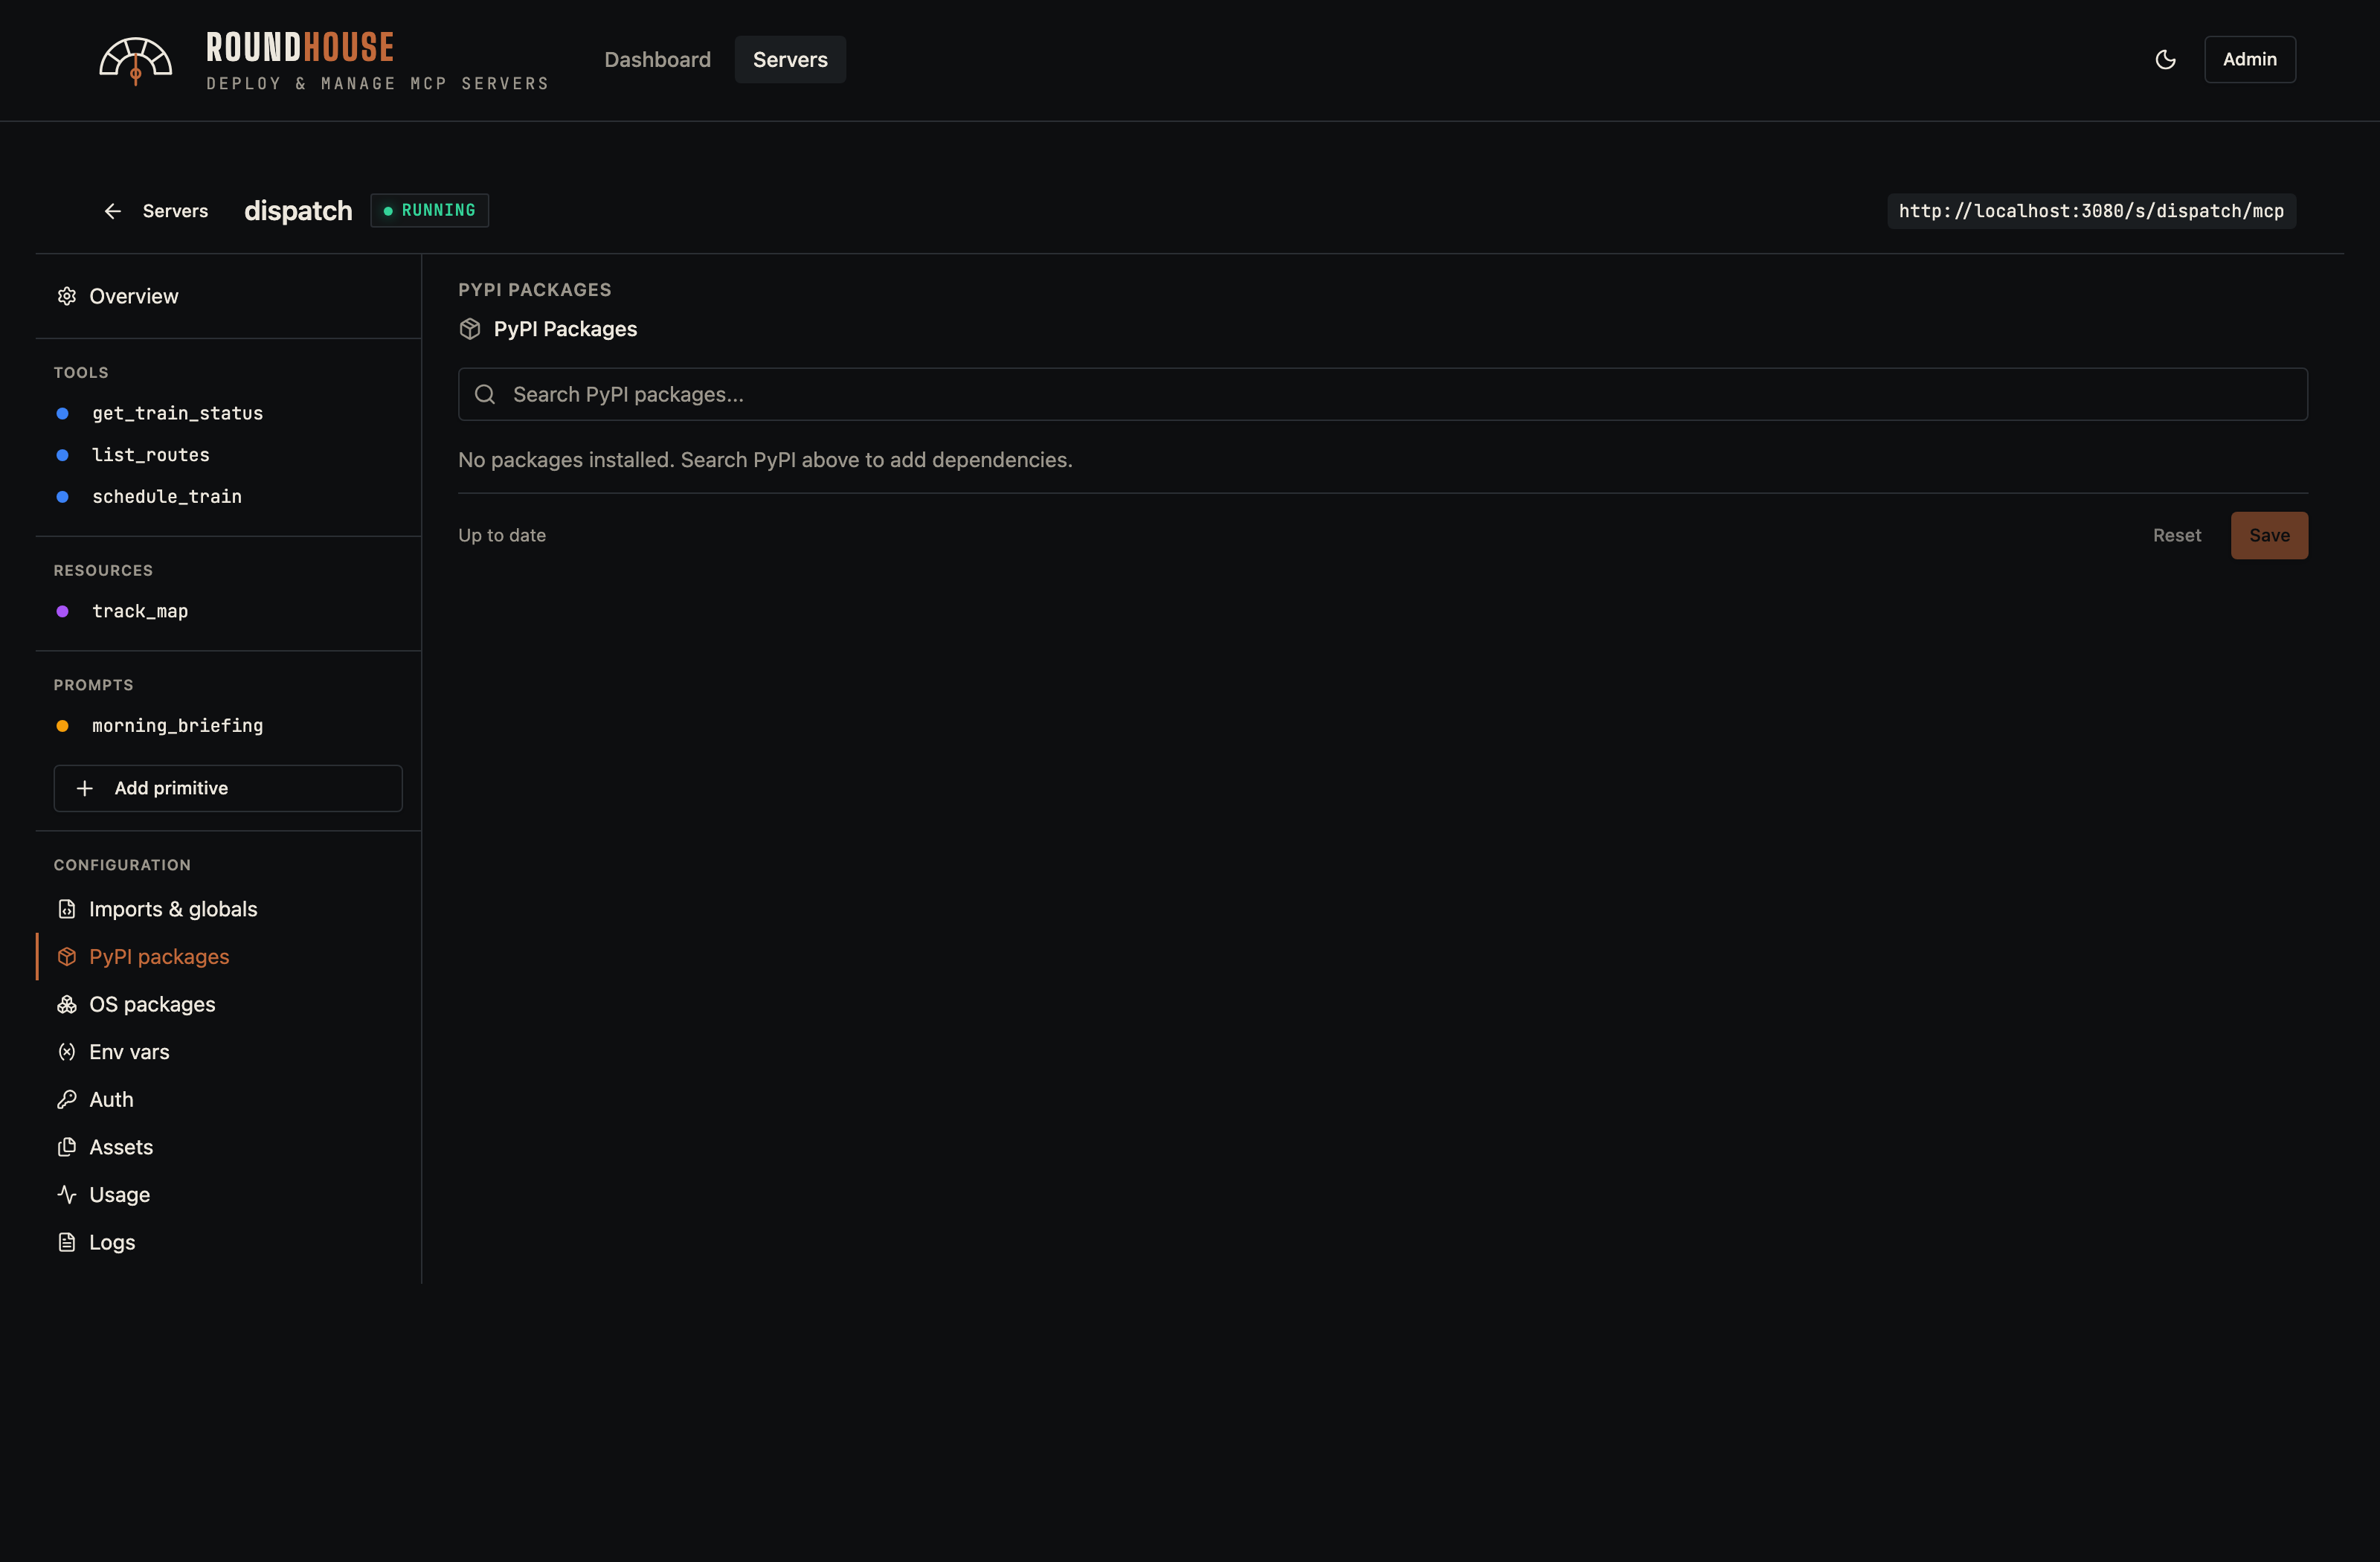
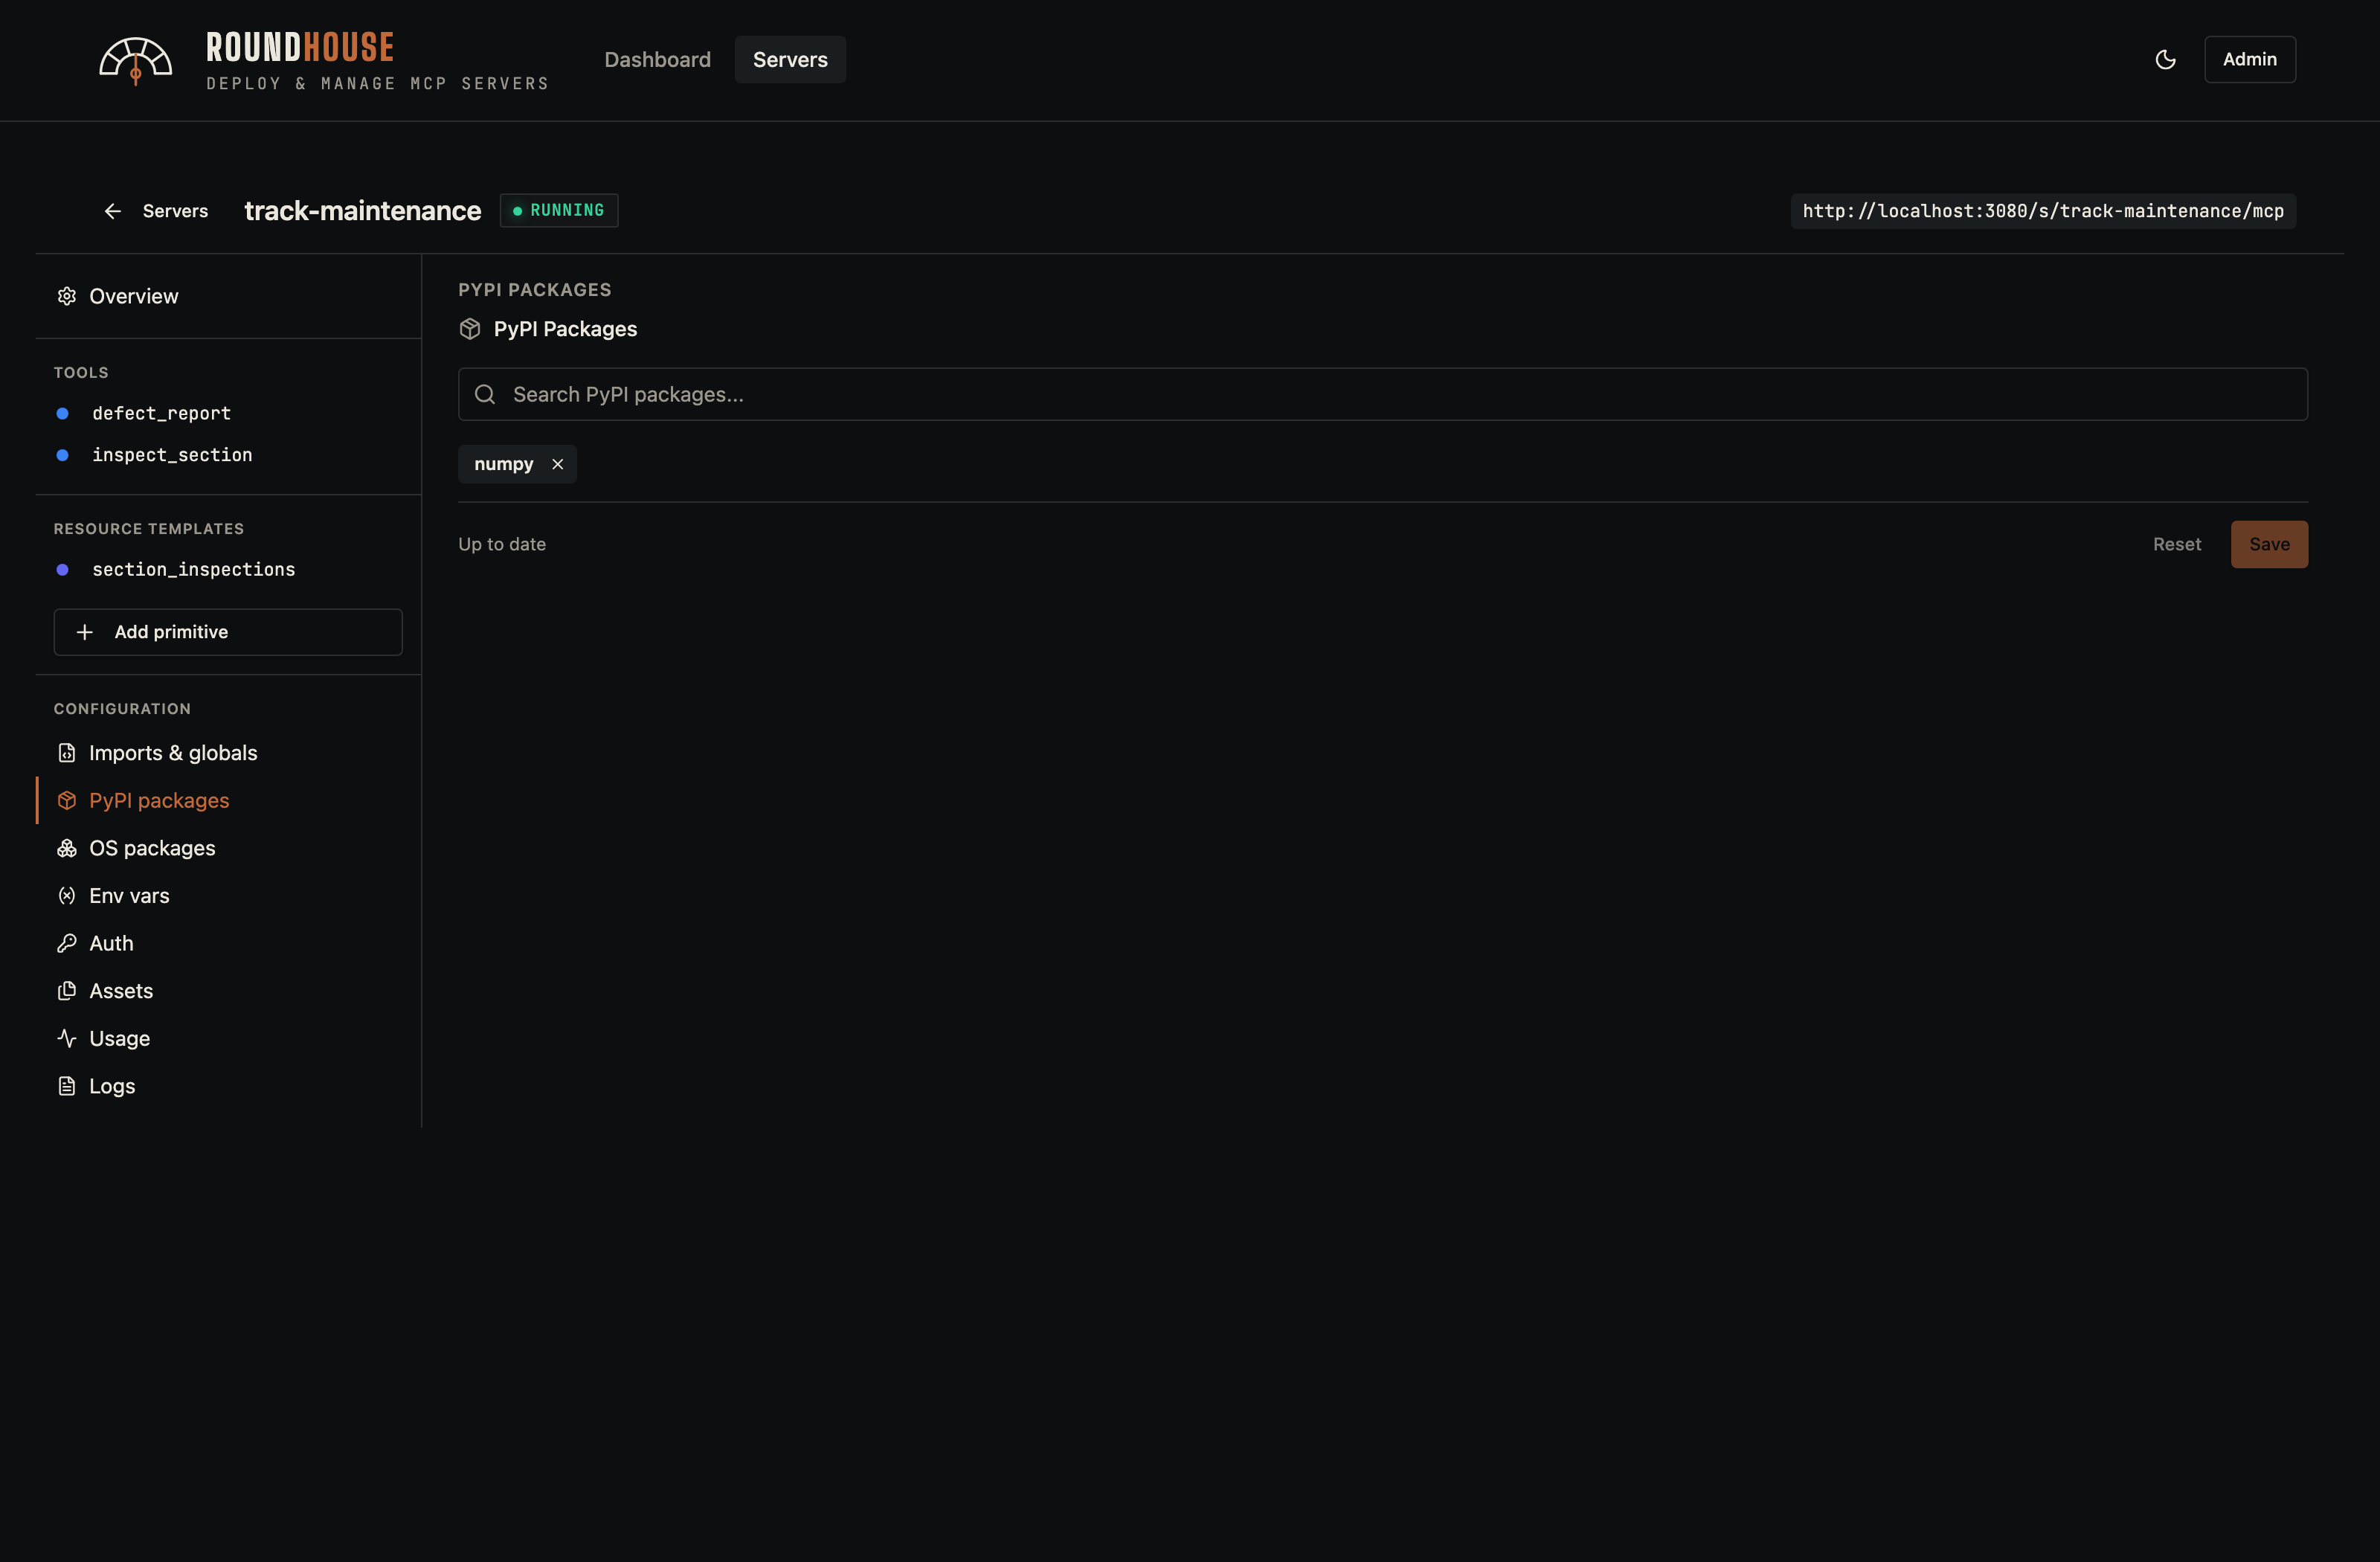
Add screenshot lightbox + cache-busting to docs page
- click any figure to expand in a full-screen lightbox (esc/click closes)
- image URLs carry a content-hash query param so re-captured screenshots
  at the same path bust browser/CDN caches
- packages screenshot now taken from track-maintenance (shows numpy)
- create-dialog copy no longer hard-codes the tab count

diff --git a/website/docs/index.html b/website/docs/index.html
@@ -184,7 +184,35 @@ figure { margin: 6px 0 30px; }
 figure img {
   width: 100%; height: auto; border: 1px solid var(--line);
   border-radius: 8px; background: var(--iron-2);
+  cursor: zoom-in; transition: border-color .2s;
 }
+figure img:hover { border-color: var(--copper-dim); }
+
+/* lightbox */
+.lightbox {
+  position: fixed; inset: 0; z-index: 1000; display: none;
+  flex-direction: column; align-items: center; justify-content: center;
+  gap: 14px; padding: 3vh 3vw;
+  background: color-mix(in srgb, var(--iron) 90%, transparent);
+  backdrop-filter: blur(12px); -webkit-backdrop-filter: blur(12px);
+}
+.lightbox.open { display: flex; }
+.lightbox img {
+  max-width: 100%; max-height: calc(100% - 52px); width: auto; height: auto;
+  border: 1px solid var(--line); border-radius: 8px;
+  box-shadow: 0 30px 90px rgba(0,0,0,.65); cursor: zoom-out;
+}
+.lightbox .lb-caption {
+  font-family: var(--mono); font-size: 11px; letter-spacing: .14em;
+  text-transform: uppercase; color: var(--smoke);
+}
+.lightbox .lb-close {
+  position: absolute; top: 18px; right: 26px;
+  font-family: var(--mono); font-size: 13px; letter-spacing: .1em;
+  color: var(--smoke); background: var(--iron-3); border: 1px solid var(--line);
+  border-radius: 4px; padding: 7px 13px; cursor: pointer; transition: color .15s, border-color .15s;
+}
+.lightbox .lb-close:hover { color: var(--cream); border-color: var(--copper-dim); }
 figcaption {
   font-family: var(--mono); font-size: 11px; letter-spacing: .14em;
   text-transform: uppercase; color: var(--ash); margin-top: 10px;
@@ -349,7 +377,7 @@ docker compose up -d</code></pre></div>
 docker compose down -v     # wipe everything</code></pre></div>
 <h3 id="sign-in">Sign in<a class="anchor" href="#sign-in" aria-label="link to section">#</a></h3>
 <p>Roundhouse uses email/password sign-in. The first admin is created from the <code>ADMIN_EMAIL</code> and <code>ADMIN_PASSWORD</code> environment variables when the API boots (defaults: <code>[email redacted]</code> / <code>admin</code> — change them in <code>.env</code> before first boot, or from the Users page after).</p>
-<figure><img src="screenshots/dark/01-login.png" alt="Login" loading="lazy" decoding="async" /><figcaption>fig. 01 — login</figcaption></figure>
+<figure><img src="screenshots/dark/01-login.png?v=9e7e9860" alt="Login" loading="lazy" decoding="async" /><figcaption>fig. 01 — login</figcaption></figure>
 <div class="rule" aria-hidden="true"></div>
 <h2 id="connecting-clients">Connecting clients<a class="anchor" href="#connecting-clients" aria-label="link to section">#</a></h2>
 <p>Every deployed server gets a stable URL like <code>http://localhost:3080/s/my-server/mcp</code>. Traefik routes MCP clients straight to the spawned container — the platform never proxies MCP traffic on the hot path.</p>
@@ -374,92 +402,92 @@ docker compose down -v     # wipe everything</code></pre></div>
 <div class="rule" aria-hidden="true"></div>
 <h2 id="dashboard">Dashboard<a class="anchor" href="#dashboard" aria-label="link to section">#</a></h2>
 <p>The dashboard is the home view after sign-in. It surfaces fleet-wide health (running/stopped/errored counts), recent call volume, the busiest servers, and a rolling activity timeline.</p>
-<figure><img src="screenshots/dark/02-dashboard.png" alt="Dashboard" loading="lazy" decoding="async" /><figcaption>fig. 02 — dashboard</figcaption></figure>
+<figure><img src="screenshots/dark/02-dashboard.png?v=4c2d46a9" alt="Dashboard" loading="lazy" decoding="async" /><figcaption>fig. 02 — dashboard</figcaption></figure>
 <div class="rule" aria-hidden="true"></div>
 <h2 id="servers-list">Servers list<a class="anchor" href="#servers-list" aria-label="link to section">#</a></h2>
 <p>The full inventory of MCP servers you can see. Each row shows the server's deploy mode (structured or code), live status, recent call count, and quick actions.</p>
-<figure><img src="screenshots/dark/03-servers-list.png" alt="Servers list" loading="lazy" decoding="async" /><figcaption>fig. 03 — servers list</figcaption></figure>
+<figure><img src="screenshots/dark/03-servers-list.png?v=342cb4e6" alt="Servers list" loading="lazy" decoding="async" /><figcaption>fig. 03 — servers list</figcaption></figure>
 <div class="rule" aria-hidden="true"></div>
 <h2 id="creating-a-server">Creating a server<a class="anchor" href="#creating-a-server" aria-label="link to section">#</a></h2>
-<p>The <strong>Create</strong> button opens a dialog with four tabs.</p>
+<p>The <strong>Create</strong> button opens a dialog with a tab for each way a server can be authored.</p>
 <h3 id="structured">Structured<a class="anchor" href="#structured" aria-label="link to section">#</a></h3>
 <p>The default: an empty spec-managed server. Primitives, packages, env vars, and middleware are managed through the UI; Roundhouse owns the Dockerfile.</p>
-<figure><img src="screenshots/dark/04-create-structured.png" alt="Create — Structured" loading="lazy" decoding="async" /><figcaption>fig. 04 — create — structured</figcaption></figure>
+<figure><img src="screenshots/dark/04-create-structured.png?v=431ea2ee" alt="Create — Structured" loading="lazy" decoding="async" /><figcaption>fig. 04 — create — structured</figcaption></figure>
 <h3 id="code-first">Code-first<a class="anchor" href="#code-first" aria-label="link to section">#</a></h3>
 <p>You supply a complete <code>server.py</code> (FastMCP). Roundhouse still owns the Dockerfile and platform middleware, but the primitive surface is hidden in favour of a full source editor.</p>
-<figure><img src="screenshots/dark/05-create-code.png" alt="Create — Code-first" loading="lazy" decoding="async" /><figcaption>fig. 05 — create — code-first</figcaption></figure>
+<figure><img src="screenshots/dark/05-create-code.png?v=4f9e1c2d" alt="Create — Code-first" loading="lazy" decoding="async" /><figcaption>fig. 05 — create — code-first</figcaption></figure>
 <h3 id="from-git">From Git<a class="anchor" href="#from-git" aria-label="link to section">#</a></h3>
 <p>Clone a repo that declares its dependencies in <code>roundhouse.json</code>. The imported server registers as <code>not_deployed</code> — Roundhouse seeds the environment variables declared by the manifest, populates pip and apt packages, and waits for an operator to fill in secrets before the first deploy.</p>
-<figure><img src="screenshots/dark/06-create-from-git.png" alt="Create — From Git" loading="lazy" decoding="async" /><figcaption>fig. 06 — create — from git</figcaption></figure>
+<figure><img src="screenshots/dark/06-create-from-git.png?v=058d64d2" alt="Create — From Git" loading="lazy" decoding="async" /><figcaption>fig. 06 — create — from git</figcaption></figure>
 <h3 id="import">Import<a class="anchor" href="#import" aria-label="link to section">#</a></h3>
 <p>Paste an exported spec JSON (from another Roundhouse instance, or from <code>POST /api/servers/{name}/export</code>) to clone a server's configuration verbatim.</p>
-<figure><img src="screenshots/dark/07-create-import.png" alt="Create — Import" loading="lazy" decoding="async" /><figcaption>fig. 07 — create — import</figcaption></figure>
+<figure><img src="screenshots/dark/07-create-import.png?v=831e391f" alt="Create — Import" loading="lazy" decoding="async" /><figcaption>fig. 07 — create — import</figcaption></figure>
 <div class="rule" aria-hidden="true"></div>
 <h2 id="the-server-editor">The server editor<a class="anchor" href="#the-server-editor" aria-label="link to section">#</a></h2>
 <p>Selecting a server opens the two-pane editor. The left rail is the server's table of contents — primitives, configuration, and operational tabs. The right pane is whichever section you've selected.</p>
 <h3 id="overview">Overview<a class="anchor" href="#overview" aria-label="link to section">#</a></h3>
 <p>The overview is the editor's home base: description, replicas, resource limits, and the lifecycle controls (Start, Stop, Redeploy, Delete, plus <strong>Update from Git</strong> for repos imported via <code>from-git</code>).</p>
-<figure><img src="screenshots/dark/10-editor-overview.png" alt="Editor — overview" loading="lazy" decoding="async" /><figcaption>fig. 08 — editor — overview</figcaption></figure>
+<figure><img src="screenshots/dark/10-editor-overview.png?v=9300df16" alt="Editor — overview" loading="lazy" decoding="async" /><figcaption>fig. 08 — editor — overview</figcaption></figure>
 <h3 id="primitives">Primitives<a class="anchor" href="#primitives" aria-label="link to section">#</a></h3>
 <p>Structured servers expose <strong>tools</strong>, <strong>resources</strong>, <strong>resource templates</strong>, and <strong>prompts</strong>. Each primitive is edited in-place: parameters, body, and optional middleware overrides (rate limit, max concurrency).</p>
 <h4 id="tool">Tool<a class="anchor" href="#tool" aria-label="link to section">#</a></h4>
-<figure><img src="screenshots/dark/11-editor-primitive-tool.png" alt="Editor — primitive (tool)" loading="lazy" decoding="async" /><figcaption>fig. 09 — editor — primitive (tool)</figcaption></figure>
+<figure><img src="screenshots/dark/11-editor-primitive-tool.png?v=3b8a9ebb" alt="Editor — primitive (tool)" loading="lazy" decoding="async" /><figcaption>fig. 09 — editor — primitive (tool)</figcaption></figure>
 <h4 id="resource">Resource<a class="anchor" href="#resource" aria-label="link to section">#</a></h4>
-<figure><img src="screenshots/dark/12-editor-primitive-resource.png" alt="Editor — primitive (resource)" loading="lazy" decoding="async" /><figcaption>fig. 10 — editor — primitive (resource)</figcaption></figure>
+<figure><img src="screenshots/dark/12-editor-primitive-resource.png?v=00cee9ad" alt="Editor — primitive (resource)" loading="lazy" decoding="async" /><figcaption>fig. 10 — editor — primitive (resource)</figcaption></figure>
 <h4 id="prompt">Prompt<a class="anchor" href="#prompt" aria-label="link to section">#</a></h4>
-<figure><img src="screenshots/dark/13-editor-primitive-prompt.png" alt="Editor — primitive (prompt)" loading="lazy" decoding="async" /><figcaption>fig. 11 — editor — primitive (prompt)</figcaption></figure>
+<figure><img src="screenshots/dark/13-editor-primitive-prompt.png?v=82555ee3" alt="Editor — primitive (prompt)" loading="lazy" decoding="async" /><figcaption>fig. 11 — editor — primitive (prompt)</figcaption></figure>
 <h4 id="adding-a-new-primitive">Adding a new primitive<a class="anchor" href="#adding-a-new-primitive" aria-label="link to section">#</a></h4>
-<figure><img src="screenshots/dark/14-editor-primitive-new.png" alt="Editor — new primitive" loading="lazy" decoding="async" /><figcaption>fig. 12 — editor — new primitive</figcaption></figure>
+<figure><img src="screenshots/dark/14-editor-primitive-new.png?v=2c3c47f1" alt="Editor — new primitive" loading="lazy" decoding="async" /><figcaption>fig. 12 — editor — new primitive</figcaption></figure>
 <h3 id="imports-and-globals">Imports and globals<a class="anchor" href="#imports-and-globals" aria-label="link to section">#</a></h3>
 <p>Any free-form Python imports or module-level globals that should appear in the generated <code>server.py</code>.</p>
-<figure><img src="screenshots/dark/15-editor-imports.png" alt="Editor — imports" loading="lazy" decoding="async" /><figcaption>fig. 13 — editor — imports</figcaption></figure>
+<figure><img src="screenshots/dark/15-editor-imports.png?v=a5c13398" alt="Editor — imports" loading="lazy" decoding="async" /><figcaption>fig. 13 — editor — imports</figcaption></figure>
 <h3 id="pypi-packages">PyPI packages<a class="anchor" href="#pypi-packages" aria-label="link to section">#</a></h3>
 <p>Pip dependencies. They are pinned into the generated Dockerfile and installed at build time.</p>
-<figure><img src="screenshots/dark/16-editor-packages.png" alt="Editor — packages (pip)" loading="lazy" decoding="async" /><figcaption>fig. 14 — editor — packages (pip)</figcaption></figure>
+<figure><img src="screenshots/dark/16-editor-packages.png?v=69b1b217" alt="Editor — packages (pip)" loading="lazy" decoding="async" /><figcaption>fig. 14 — editor — packages (pip)</figcaption></figure>
 <h3 id="apt-packages">APT packages<a class="anchor" href="#apt-packages" aria-label="link to section">#</a></h3>
 <p>OS-level packages installed via <code>apt-get</code> in the build. Use for native toolchains a Python wheel needs.</p>
-<figure><img src="screenshots/dark/17-editor-apt.png" alt="Editor — apt packages" loading="lazy" decoding="async" /><figcaption>fig. 15 — editor — apt packages</figcaption></figure>
+<figure><img src="screenshots/dark/17-editor-apt.png?v=527da61c" alt="Editor — apt packages" loading="lazy" decoding="async" /><figcaption>fig. 15 — editor — apt packages</figcaption></figure>
 <h3 id="environment-variables">Environment variables<a class="anchor" href="#environment-variables" aria-label="link to section">#</a></h3>
 <p>Per-server env vars (with optional encrypted-at-rest secrets) and global imports. Changes save instantly; the redeploy banner surfaces because the new value only takes effect on the next container restart.</p>
-<figure><img src="screenshots/dark/18-editor-env.png" alt="Editor — env vars" loading="lazy" decoding="async" /><figcaption>fig. 16 — editor — env vars</figcaption></figure>
+<figure><img src="screenshots/dark/18-editor-env.png?v=c64fb849" alt="Editor — env vars" loading="lazy" decoding="async" /><figcaption>fig. 16 — editor — env vars</figcaption></figure>
 <h3 id="auth-server-tokens">Auth (server tokens)<a class="anchor" href="#auth-server-tokens" aria-label="link to section">#</a></h3>
 <p>Bearer tokens that callers present in the <code>Authorization</code> header. Per-token scopes can lock individual primitives down to specific token holders.</p>
-<figure><img src="screenshots/dark/19-editor-auth.png" alt="Editor — auth" loading="lazy" decoding="async" /><figcaption>fig. 17 — editor — auth</figcaption></figure>
+<figure><img src="screenshots/dark/19-editor-auth.png?v=e6aa30bf" alt="Editor — auth" loading="lazy" decoding="async" /><figcaption>fig. 17 — editor — auth</figcaption></figure>
 <h3 id="assets">Assets<a class="anchor" href="#assets" aria-label="link to section">#</a></h3>
 <p>Arbitrary files that get baked into the image under <code>/app/assets/</code>. Useful for prompt templates, large JSON fixtures, or any read-only data your tools reference at runtime.</p>
-<figure><img src="screenshots/dark/20-editor-assets.png" alt="Editor — assets" loading="lazy" decoding="async" /><figcaption>fig. 18 — editor — assets</figcaption></figure>
+<figure><img src="screenshots/dark/20-editor-assets.png?v=bcc4beac" alt="Editor — assets" loading="lazy" decoding="async" /><figcaption>fig. 18 — editor — assets</figcaption></figure>
 <h3 id="usage">Usage<a class="anchor" href="#usage" aria-label="link to section">#</a></h3>
 <p>Per-primitive call counts, p50/p95/p99 latency, error rate, and the busiest client tokens. Sampled in-process by the platform middleware and surfaced without an extra metrics backend — no Prometheus, no Grafana, no add-on agent. Drilling into a server's usage tab is how you find latency regressions or the one tool that's getting hammered.</p>
-<figure><img src="screenshots/dark/21-editor-usage.png" alt="Editor — usage (dispatch)" loading="lazy" decoding="async" /><figcaption>fig. 19 — editor — usage (dispatch)</figcaption></figure>
+<figure><img src="screenshots/dark/21-editor-usage.png?v=24146a27" alt="Editor — usage (dispatch)" loading="lazy" decoding="async" /><figcaption>fig. 19 — editor — usage (dispatch)</figcaption></figure>
 <p>A busier server (crew-scheduling, which carries the heaviest call volume in the demo fleet) makes the chart variety obvious:</p>
-<figure><img src="screenshots/dark/21a-editor-usage-busy.png" alt="Editor — usage (crew-scheduling)" loading="lazy" decoding="async" /><figcaption>fig. 20 — editor — usage (crew-scheduling)</figcaption></figure>
+<figure><img src="screenshots/dark/21a-editor-usage-busy.png?v=d591e25a" alt="Editor — usage (crew-scheduling)" loading="lazy" decoding="async" /><figcaption>fig. 20 — editor — usage (crew-scheduling)</figcaption></figure>
 <h3 id="logs">Logs<a class="anchor" href="#logs" aria-label="link to section">#</a></h3>
 <p>Streams stdout/stderr from the server container via Server-Sent Events.</p>
 <p>For spec-based servers, the <strong>Level</strong> dropdown writes the <code>LOG_LEVEL</code> environment variable on the spec; the platform middleware reads it and configures stdlib logging accordingly. At <code>DEBUG</code>, the middleware also emits a start record (with arguments) for every tool/resource/prompt call. Failed calls promote the end-of-call record to <code>WARNING</code>. The dropdown is hidden for code-mode servers, since they own their own logging surface.</p>
-<figure><img src="screenshots/dark/22-editor-logs.png" alt="Editor — logs" loading="lazy" decoding="async" /><figcaption>fig. 21 — editor — logs</figcaption></figure>
+<figure><img src="screenshots/dark/22-editor-logs.png?v=26f85b2f" alt="Editor — logs" loading="lazy" decoding="async" /><figcaption>fig. 21 — editor — logs</figcaption></figure>
 <h3 id="source-code-mode">Source (code mode)<a class="anchor" href="#source-code-mode" aria-label="link to section">#</a></h3>
 <p>For servers in <strong>code mode</strong>, the editor replaces the primitive surface with a full <code>server.py</code> editor (CodeMirror, Python syntax highlighting). The platform still controls the Dockerfile.</p>
-<figure><img src="screenshots/dark/30-editor-source.png" alt="Editor — source (code mode)" loading="lazy" decoding="async" /><figcaption>fig. 22 — editor — source (code mode)</figcaption></figure>
+<figure><img src="screenshots/dark/30-editor-source.png?v=c9fa7d64" alt="Editor — source (code mode)" loading="lazy" decoding="async" /><figcaption>fig. 22 — editor — source (code mode)</figcaption></figure>
 <p>Code-mode servers still expose every operational tab — env vars, logs, usage — so the operator surface is unchanged.</p>
-<figure><img src="screenshots/dark/31-editor-source-env.png" alt="Editor — code-mode env" loading="lazy" decoding="async" /><figcaption>fig. 23 — editor — code-mode env</figcaption></figure>
+<figure><img src="screenshots/dark/31-editor-source-env.png?v=26dac55f" alt="Editor — code-mode env" loading="lazy" decoding="async" /><figcaption>fig. 23 — editor — code-mode env</figcaption></figure>
 <h3 id="stopped-server">Stopped server<a class="anchor" href="#stopped-server" aria-label="link to section">#</a></h3>
 <p>A stopped server keeps its spec on disk; restarting it reuses the cached image without a rebuild.</p>
-<figure><img src="screenshots/dark/40-editor-stopped.png" alt="Editor — stopped" loading="lazy" decoding="async" /><figcaption>fig. 24 — editor — stopped</figcaption></figure>
+<figure><img src="screenshots/dark/40-editor-stopped.png?v=0f1d834a" alt="Editor — stopped" loading="lazy" decoding="async" /><figcaption>fig. 24 — editor — stopped</figcaption></figure>
 <div class="rule" aria-hidden="true"></div>
 <h2 id="platform-administration">Platform administration<a class="anchor" href="#platform-administration" aria-label="link to section">#</a></h2>
 <p>Roundhouse ships with a small set of platform admin views.</p>
 <h3 id="platform-settings">Platform settings<a class="anchor" href="#platform-settings" aria-label="link to section">#</a></h3>
 <p>Host configuration: external hostname, Docker registry credentials, custom CA bundle for outbound TLS, and platform-wide env defaults that get imported into spec-based servers.</p>
-<figure><img src="screenshots/dark/50-settings.png" alt="Platform settings" loading="lazy" decoding="async" /><figcaption>fig. 25 — platform settings</figcaption></figure>
+<figure><img src="screenshots/dark/50-settings.png?v=3a9ecd1b" alt="Platform settings" loading="lazy" decoding="async" /><figcaption>fig. 25 — platform settings</figcaption></figure>
 <h3 id="users">Users<a class="anchor" href="#users" aria-label="link to section">#</a></h3>
 <p>User accounts with role assignment. The seeded demo includes a handful of operators alongside the platform admin; superadmins can reset passwords and revoke access from this page.</p>
-<figure><img src="screenshots/dark/51-users.png" alt="Users" loading="lazy" decoding="async" /><figcaption>fig. 26 — users</figcaption></figure>
+<figure><img src="screenshots/dark/51-users.png?v=93299e0c" alt="Users" loading="lazy" decoding="async" /><figcaption>fig. 26 — users</figcaption></figure>
 <h3 id="teams">Teams<a class="anchor" href="#teams" aria-label="link to section">#</a></h3>
 <p>Teams group users into shared-access bundles. A team can own one or more servers, and any team member inherits access to those servers without needing per-server token grants. The seeded demo creates three railroad departments — Operations, Maintenance of Way, and Revenue Service — each with its own member roster.</p>
-<figure><img src="screenshots/dark/52-teams.png" alt="Teams" loading="lazy" decoding="async" /><figcaption>fig. 27 — teams</figcaption></figure>
+<figure><img src="screenshots/dark/52-teams.png?v=1e4eeb59" alt="Teams" loading="lazy" decoding="async" /><figcaption>fig. 27 — teams</figcaption></figure>
 <h3 id="audit-log">Audit log<a class="anchor" href="#audit-log" aria-label="link to section">#</a></h3>
 <p>Every state-mutating action — server create/delete, env-var change, token rotation — is recorded with the acting user, target, and a structured detail payload.</p>
-<figure><img src="screenshots/dark/53-audit.png" alt="Audit log" loading="lazy" decoding="async" /><figcaption>fig. 28 — audit log</figcaption></figure>
+<figure><img src="screenshots/dark/53-audit.png?v=075d6b27" alt="Audit log" loading="lazy" decoding="async" /><figcaption>fig. 28 — audit log</figcaption></figure>
 <div class="rule" aria-hidden="true"></div>
 <h2 id="configuration-reference">Configuration reference<a class="anchor" href="#configuration-reference" aria-label="link to section">#</a></h2>
 <p>Everything reads from environment variables — see <a href="https://github.com/Karmatek-Consulting-LLC/roundhouse/blob/main/.env.example" target="_blank" rel="noopener"><code>.env.example</code></a> for the full list. The knobs you'll actually touch:</p>
@@ -489,7 +517,38 @@ docker compose down -v     # wipe everything</code></pre></div>
   </div>
 </footer>
 
+<div class="lightbox" id="lightbox" role="dialog" aria-modal="true" aria-label="Screenshot viewer">
+  <button class="lb-close" type="button">esc / close</button>
+  <img alt="" />
+  <div class="lb-caption"></div>
+</div>
+
 <script>
+(function () {
+  var lb = document.getElementById("lightbox");
+  var lbImg = lb.querySelector("img");
+  var lbCap = lb.querySelector(".lb-caption");
+  function open(img) {
+    lbImg.src = img.src;
+    lbImg.alt = img.alt;
+    var cap = img.closest("figure");
+    lbCap.textContent = cap && cap.querySelector("figcaption") ? cap.querySelector("figcaption").textContent : img.alt;
+    lb.classList.add("open");
+    document.body.style.overflow = "hidden";
+  }
+  function close() {
+    lb.classList.remove("open");
+    lbImg.src = "";
+    document.body.style.overflow = "";
+  }
+  document.querySelectorAll("article figure img").forEach(function (img) {
+    img.addEventListener("click", function () { open(img); });
+  });
+  lb.addEventListener("click", close);
+  document.addEventListener("keydown", function (e) {
+    if (e.key === "Escape" && lb.classList.contains("open")) close();
+  });
+})();
 (function () {
   var links = Array.prototype.slice.call(document.querySelectorAll("aside.toc a"));
   if (!links.length) return;

diff --git a/docs/user-guide.md b/docs/user-guide.md
@@ -107,7 +107,8 @@ actions.
 
 ## Creating a server
 
-The **Create** button opens a dialog with four tabs.
+The **Create** button opens a dialog with a tab for each way a server can
+be authored.
 
 ### Structured
 